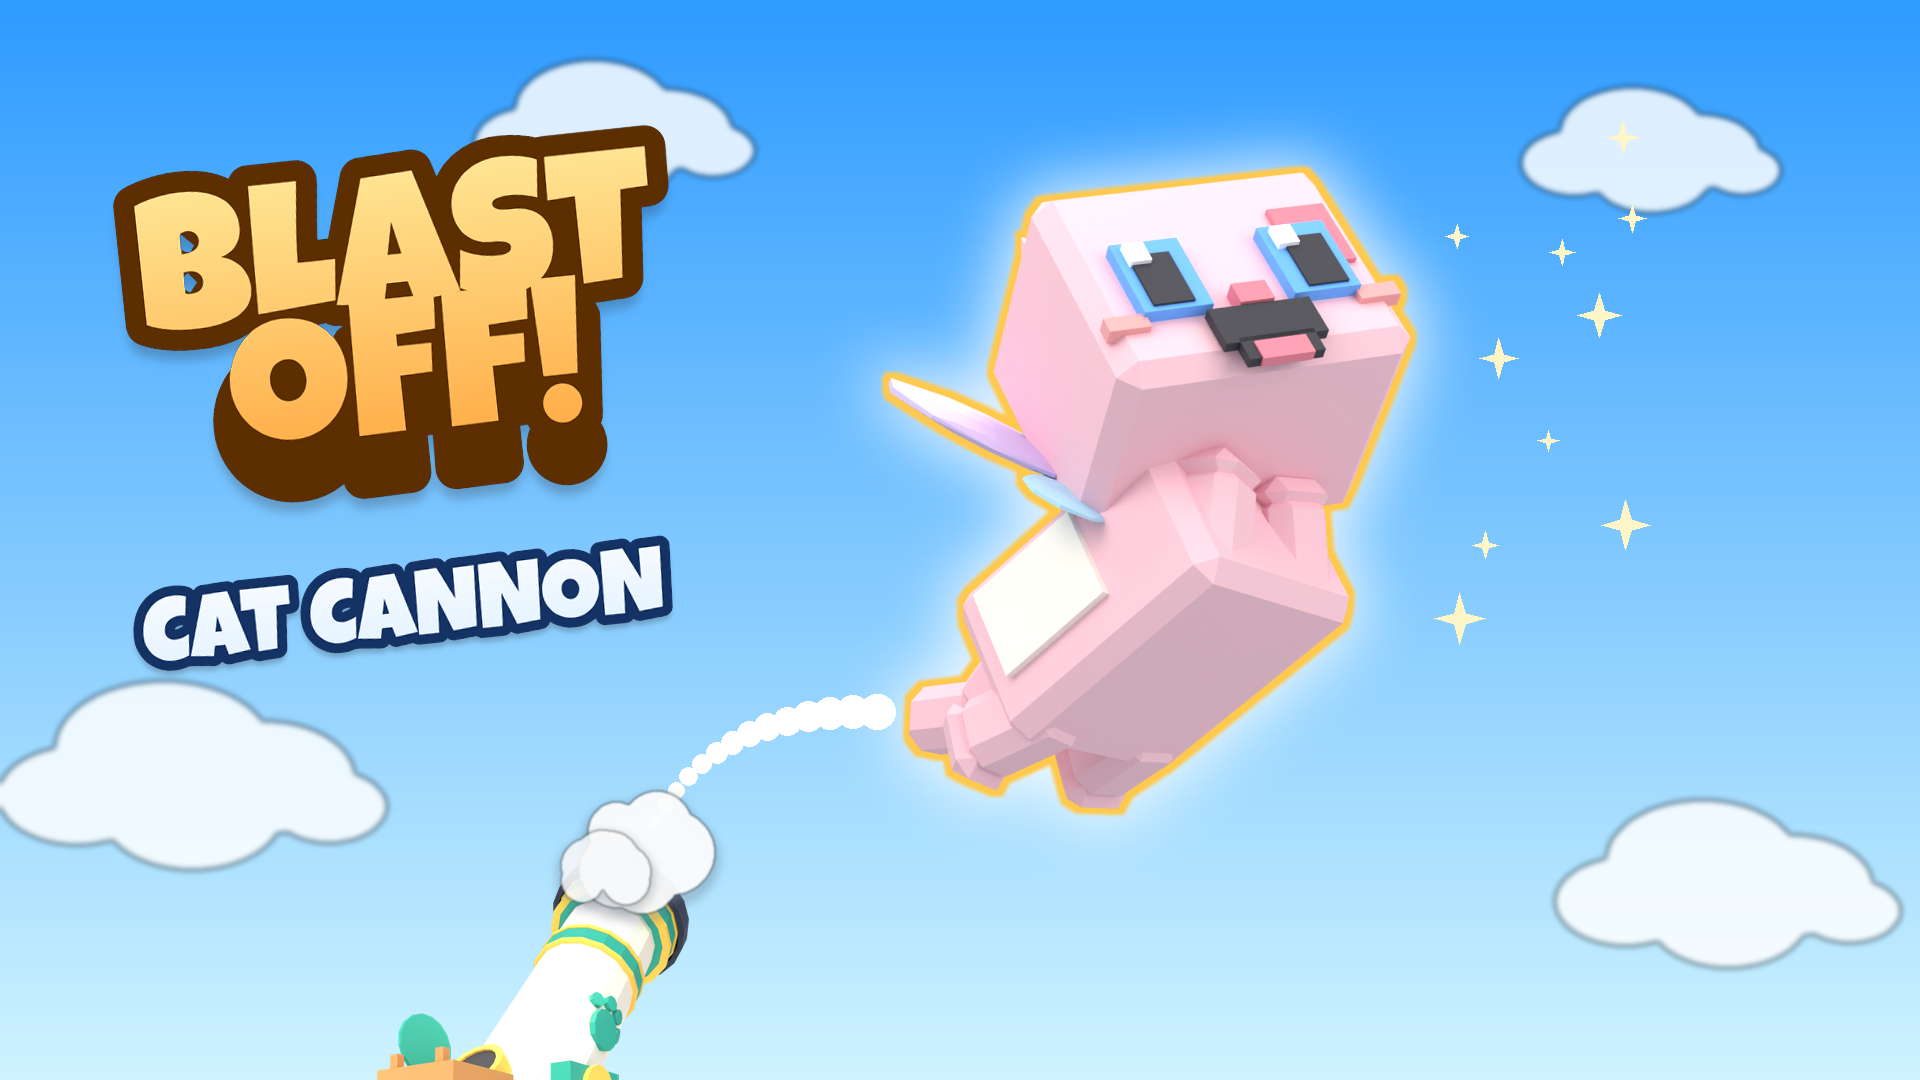
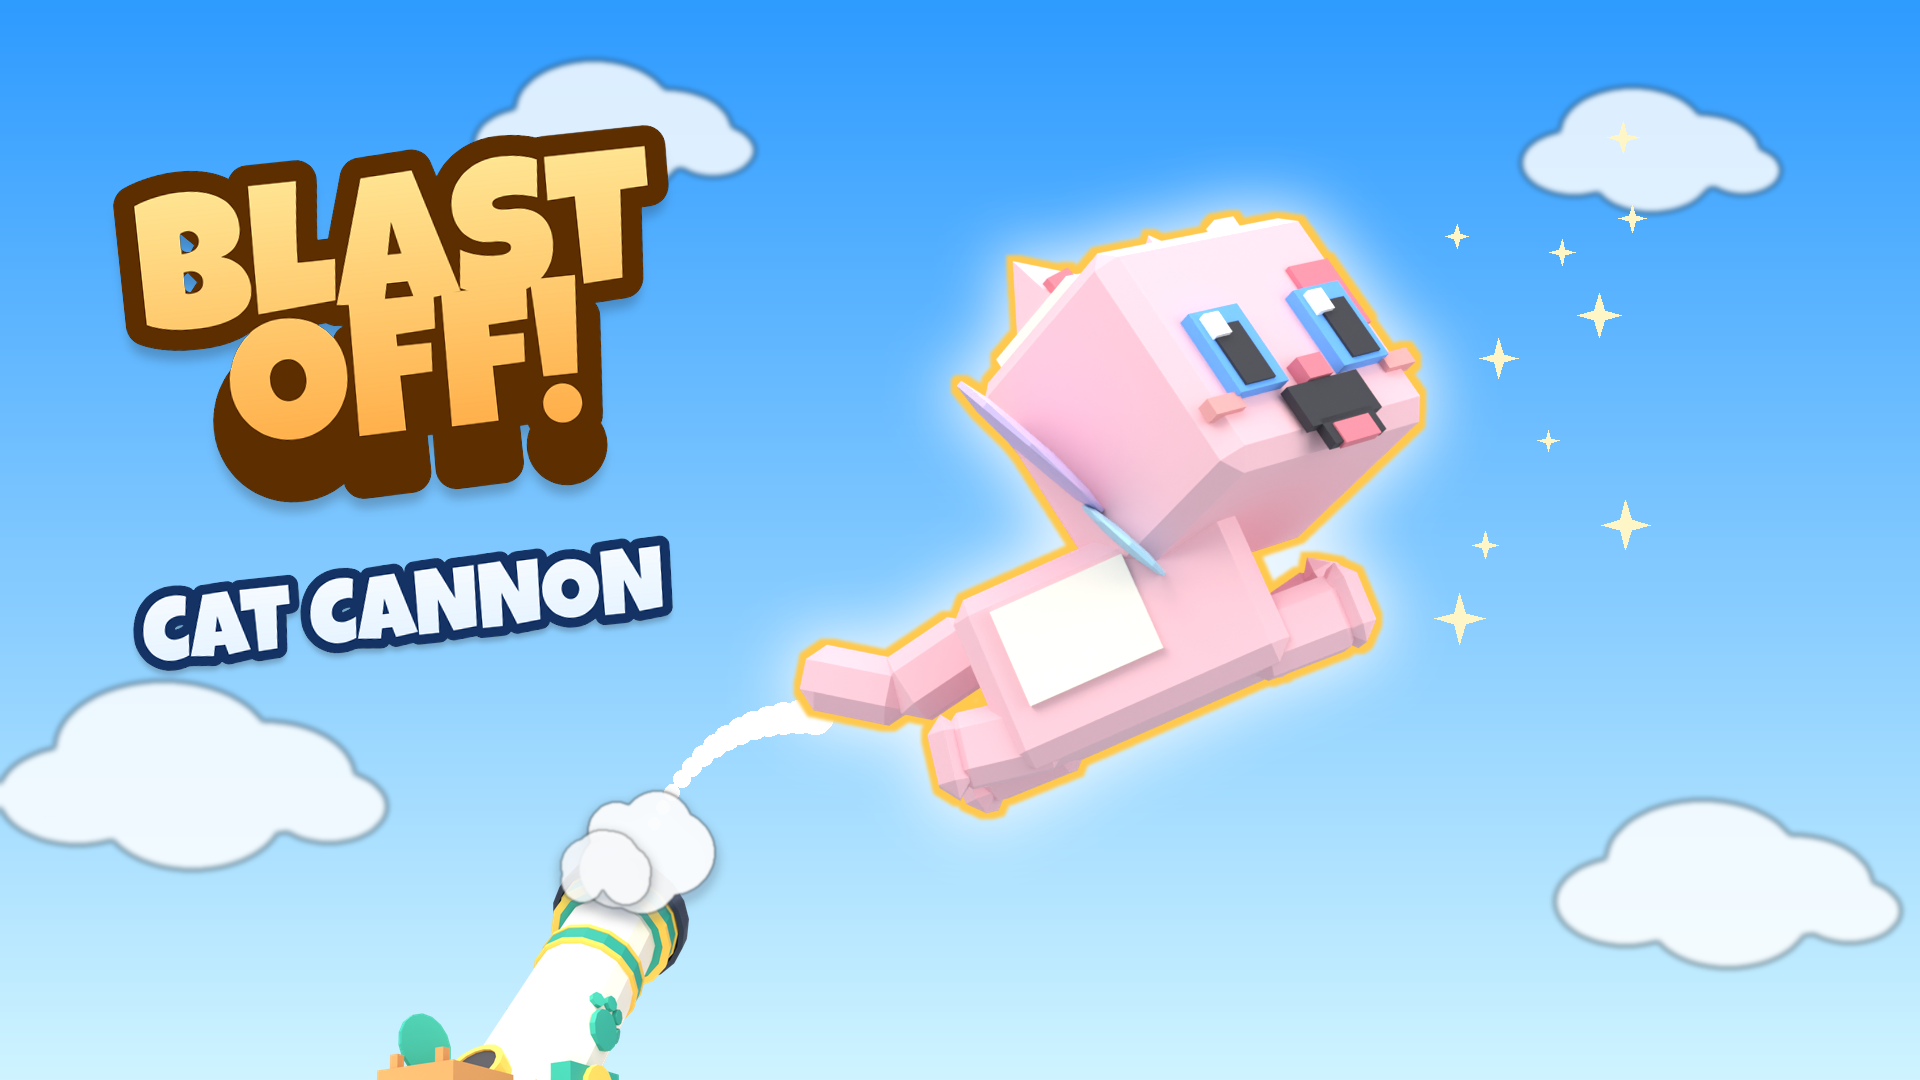
Store pictures set 3: fix J's net and M's flying cat, add player versions N and O
Derek (2026-11-02 15:10, 15:11, 15:12): the net in J ran into the Balloon
Cat's balloons, the flying cat in M looked strange, and trending games
show a default-style player doing the game's action. J's net now keeps
clear of the balloons, M's cat flies side-on with its front paws reaching
ahead, and N and O show a blocky player in the classic colours swinging
the net and blasting out of the Cat Cannon. The phone-size sheet and the
README cover all six.

Claude-Session: https://claude.ai/code/session_01QtKGL1YLRkWWbZ5eTJdLo8

Changed region(s): [[0.3438, 0.1222, 0.7812, 0.7639]]

diff --git a/docs/growth/store-art/2026-11-02-set3/README.md b/docs/growth/store-art/2026-11-02-set3/README.md
@@ -1,13 +1,15 @@
 # Store pictures, set 3 (2026-11-02)
 
-Four 1920 x 1080 thumbnails built on Research-Agent's thumbnail study of 33 trending Roblox games (`/mnt/project-files/Research-Agent/thumbnail-study-2026-11-02.md` in the project files). What the study found and what these follow:
+Six 1920 x 1080 thumbnails built on Research-Agent's thumbnail study of 33 trending Roblox games (`/mnt/project-files/Research-Agent/thumbnail-study-2026-11-02.md` in the project files). What the study found and what these follow:
 
-- One big hero, 50 to 60% of the image height, caught mid-action with an open-mouthed reaction. Derek chose a cat for the reacting hero (2026-11-02), since his rule keeps Roblox characters out of the renders.
+- One big hero, 50 to 60% of the image height, caught mid-action with an open-mouthed reaction. Derek first chose a cat for the reacting hero (J to M). At 15:12 he asked for the trending games' other pattern too, a default-style Roblox player doing the game's action, so N and O have a blocky player in the classic yellow, blue and green colours, built for these renders (no Roblox avatar asset is used).
 - One big hook in the top third: a real rarity, real odds or a real income figure, in gold or rainbow gradient with a thick dark outline.
 - "CAT CAFE" only on the first image; at most 2 or 3 more words.
 - Warm cats on cool, flat backgrounds; a different rare cat on each image.
 
-Made from the game's own models (the Blender generator in `assets/cat-cafe/blender`, rendered in Cycles; the leap and flight poses and the open mouth are render-only, not game models), with text and effects drawn on top. `set3-phone-size.png` shows them at 200 px wide, the size Roblox shows on phones, above set 2.
+Made from the game's own models (the Blender generator in `assets/cat-cafe/blender`, rendered in Cycles; the leap and flight poses, the open mouth and the player figure are render-only, not game models), with text and effects drawn on top. `set3-phone-size.png` shows them at 200 px wide, the size Roblox shows on phones, above set 2.
+
+Derek's fixes (15:10 and 15:11): J's net now stays clear of the Balloon Cat's balloons, and M's cat flies in a side-on stretch, front paws reaching ahead, in place of the first folded pose.
 
 | File | What it shows | What it claims, and where that is true |
 |---|---|---|
@@ -15,6 +17,8 @@ Made from the game's own models (the Blender generator in `assets/cat-cafe/blend
 | `CatCafe_Thumb_K_RainbowOdds.png` | A Rainbow Tabby pouncing toward the camera on purple, "1 IN 200" in the coat's hues and "RAINBOW CAT" | Config.RainbowChanceNet and RainbowChanceBait = 0.005, the base odds before rainbow luck |
 | `CatCafe_Thumb_L_TopEarner.png` | Eclipse (Mythical, Sewer) at work with the waiter's tray, coin piles flying, "+$6,075/s" and "ONE MYTHICAL CAT" | Catalog: Mythical 75/s x Sewer area 81 = 6,075/s, the Index figure, written the way the game writes a rate (+$ and /s) |
 | `CatCafe_Thumb_M_CannonFlight.png` | Blossom (Legendary) flying out of the Town Square's Cat Cannon with a dotted trail and a smoke puff, "BLAST OFF!" and "CAT CANNON" | F84 cannon flights. In the game the player rides the cannon; here the cat stands in for the player, as on the other images |
+| `CatCafe_Thumb_N_PlayerCatch.png` | The player swooping the Master net down over the Balloon Cat as it leaps in, "MYTHICAL!", "!!" and a small CAT CAFE logo | The same claims as J; the player swings the net in the game |
+| `CatCafe_Thumb_O_PlayerCannon.png` | The player blasting out of the Cat Cannon, arms up, "BLAST OFF!" and "CAT CANNON" | F84: the cannon launches the player, so this is the flight as it happens in the game |
 
 Titles sit in the top two thirds, since Roblox draws the player count over the bottom of a thumbnail in some views. Each file is under 3 MB.
 
